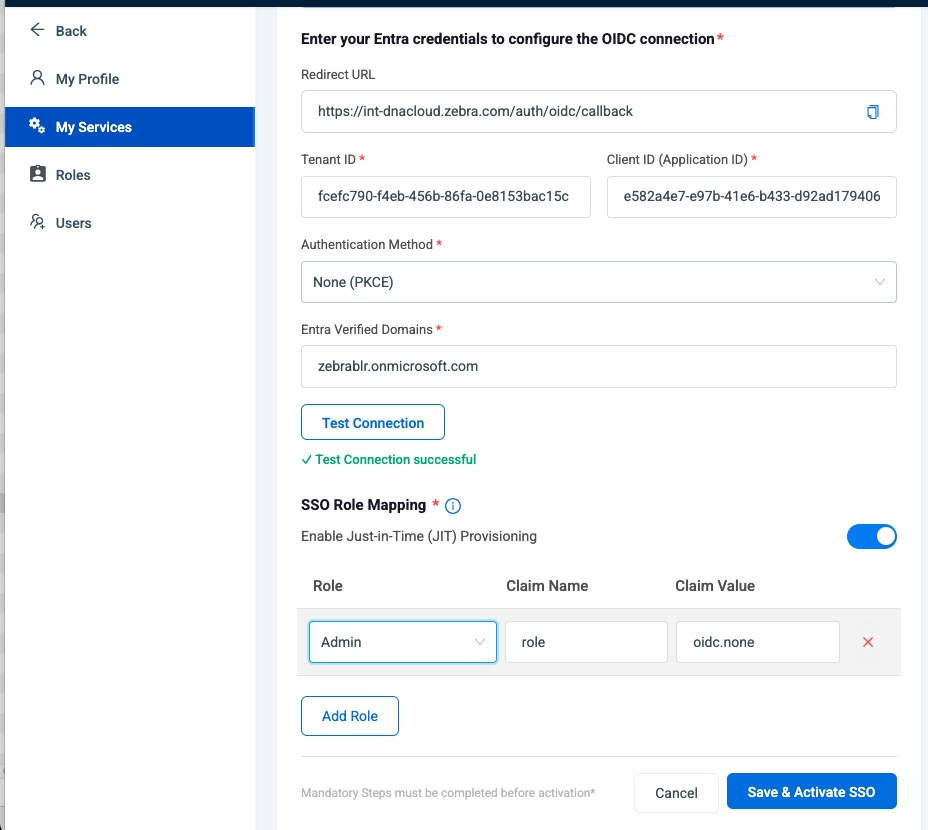
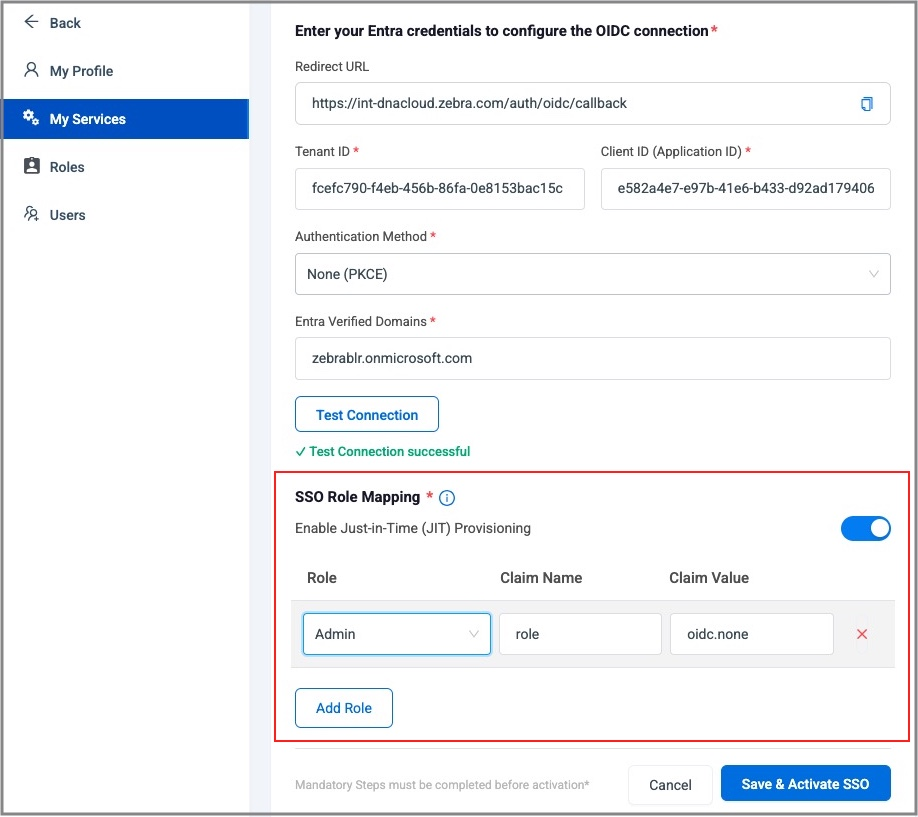
[TUT-143765] ZDNA 6.10 Entra updates, per eng

diff --git a/zebradna/6-10/about/index.html b/zebradna/6-10/about/index.html
@@ -292,7 +292,15 @@
 
 <p><i class="fa fa-hand-o-right" style="color:#27AE60;"></i> See all <a href="https://www.zebra.com/us/en/support-downloads/software/utilities/dna-cloud.html">devices supported by Zebra DNA Cloud</a><br></p>
 
-<p>‡<i><font size="1" color="DimGrey"> Supports desktop and laptop PCs only. <a href="../setup/#webbasedselfenrollment">See additional requirements</a>.</font></i></p>
+<!-- 10/23/26 more known issues (for Monday's release. wow. I get the whole weekend! )
+
+Editing a multi-domain configuration fails. Modifying the domains on a saved config throws an error. The workaround is to delete the SSO config and re-add it.
+Note: Add the domain to Entra verified domains and save.
+Jira ticket : https://jira.zebra.com/browse/DLM-100680
+
+Users must enter proper email domains. Whether a domain is valid or invalid, the list has to contain the actual email domains users sign in with. Otherwise login with the other domains fails. This needs to be documented.
+
+ -->
 
 <!-- 10/23/26 EDCL-293 removed again (for the second time)
 
@@ -305,6 +313,10 @@
  _Selection of storage format for data collected during user self-enrollment_.<br>
  _Click image to enlarge; ESC to exit_.
 * **Now displays [enrollment status](../usage/#enrollmentstatus)** for device users and adds related actions. 
+
+
+&Dagger;<i><font size="1" color="DimGrey"> Supports desktop and laptop PCs only. <a href="../setup/#webbasedselfenrollment">See additional requirements</a>.</font></i>
+
 
 /EDCL-293
 

diff --git a/zebradna/6-10/setup/index.html b/zebradna/6-10/setup/index.html
@@ -1531,7 +1531,7 @@ ZDNA validates the OIDC configuration and displays the result.</p></li>
 
 <li><p><strong>Click the "New Role" button</strong> to begin mapping a role.<br>
 <i class="fa fa-exclamation-triangle" style="color:#FFA500;"></i> <strong>At least one mapping is required to allow Entra SSO logins</strong> without further administrator involvement following this process.
-<img alt="image" style="height:300px" src="../../images/6-10/160-entra-add-role.jpg">
+<img alt="image" style="height:450px" src="../../images/6-10/160-entra-add-role.jpg">
 <em>Click image to enlarge; ESC to exit.</em>
 <br></p></li>
 
